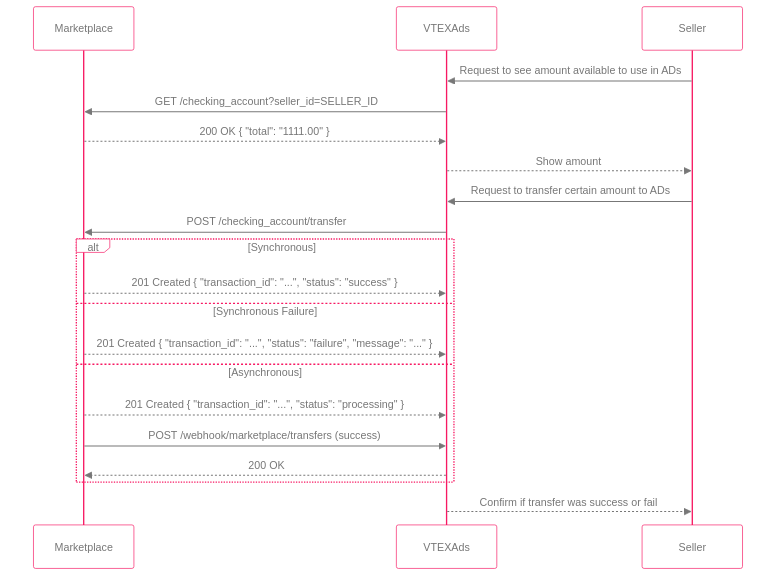
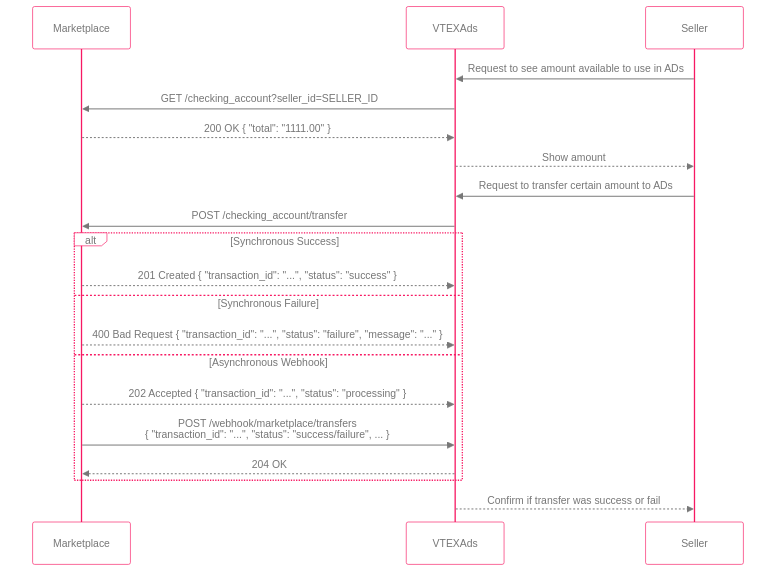
atualização da documentação de repasse

diff --git a/es/docs/7-repasse.md b/es/docs/7-repasse.md
@@ -2,7 +2,7 @@
 
 ![Flujo de Transferencia de Créditos](../../diagrams/images/credit-transfer.png)
 
-Flujo que permite al marketplace transferir créditos de publicidad a sus sellers. Para ello, el marketplace debe implementar dos endpoints y consumir un webhook de Newtail.
+Flujo que permite al marketplace transferir créditos de publicidad a sus sellers. Para ello, el marketplace debe implementar dos endpoints y consumir un webhook de VTEXAds.
 
   * **Endpoints a ser implementados por el Marketplace (Autenticación: Basic Auth):**
     1.  **Consulta de Saldo (`GET /checking_account`)**
@@ -24,17 +24,15 @@ Flujo que permite al marketplace transferir créditos de publicidad a sus seller
               "transfer_identity_id": "uuid"
             }
             ```
-        *   **Respuesta (201 Created):**
-            ```json
-            {
-              "transaction_id": "TRANSACTION_ID",
-              "status": "processing"
-            }
-            ```
-            Con el estado `processing`, la transacción aún no está completa y se enviará el webhook.
-            Para transacciones síncronas, los estados pueden ser:
-            - `success`: La transacción se completó con éxito.
-            - `failure`: La transacción falló.
+        *   **Respuestas:**
+            - **Síncrona (Éxito):** `201 Created`
+              ```json
+              {
+                "transaction_id": "TRANSACTION_ID",
+                "status": "success"
+              }
+              ```
+            - **Síncrona (Falla):** `400 Bad Request`
               ```json
               {
                 "transaction_id": "TRANSACTION_ID",
@@ -42,30 +40,32 @@ Flujo que permite al marketplace transferir créditos de publicidad a sus seller
                 "message": "Motivo del rechazo"
               }
               ```
+            - **Asíncrona:** `202 Accepted`
+              ```json
+              {
+                "transaction_id": "TRANSACTION_ID",
+                "status": "processing"
+              }
+              ```
 
   * **Webhook a ser consumido por el Marketplace:**
-    *   **Objetivo:** Notificar a Newtail sobre el estado final de la transferencia.
+    *   **Objetivo:** Notificar a VTEXAds sobre el estado final de la transferencia.
     *   **Endpoint:** `POST https://api-retail-media.newtail.com.br/webhook/marketplace/transfers/:publisher_id`
     *   **Autenticación:** `x-api-key` y `x-secret-key`.
-    *   **Payload de Éxito:**
+    *   **Payload:**
         ```json
         {
-          "amount": "10.00",
-          "seller_id": "SELLER_ID",
-          "publisher_id": "PUBLISHER_ID",
-          "transfer_identity_id": "uuid",
+          "transaction_id": "TRANSACTION_ID",
           "status": "success"
         }
         ```
-    *   **Payload de Falla:**
+        o
         ```json
         {
-          "amount": "10.00",
-          "seller_id": "SELLER_ID",
-          "publisher_id": "PUBLISHER_ID",
-          "transfer_identity_id": "uuid",
+          "transaction_id": "TRANSACTION_ID",
           "status": "failure",
           "message": "Descripción del problema"
         }
         ```
     *   **Lógica de Reintentos:** En caso de falla en la llamada del webhook, el marketplace debe realizar nuevos intentos.
+    *   **Respuesta Esperada:** `204 No Content`

diff --git a/pt/docs/7-repasse.md b/pt/docs/7-repasse.md
@@ -2,7 +2,7 @@
 
 ![Fluxo de Repasse de Créditos](../../diagrams/images/credit-transfer.png)
 
-Fluxo que permite ao marketplace transferir créditos de anúncio para seus sellers. Para isso, o marketplace deve implementar dois endpoints e consumir um webhook da Newtail.
+Fluxo que permite ao marketplace transferir créditos de anúncio para seus sellers. Para isso, o marketplace deve implementar dois endpoints e consumir um webhook da VTEXAds.
 
   * **Endpoints a serem implementados pelo Marketplace (Autenticação: Basic Auth):**
     1.  **Consulta de Saldo (`GET /checking_account`)**
@@ -24,17 +24,15 @@ Fluxo que permite ao marketplace transferir créditos de anúncio para seus sell
               "transfer_identity_id": "uuid"
             }
             ```
-        *   **Resposta (201 Created):**
-            ```json
-            {
-              "transaction_id": "TRANSACTION_ID",
-              "status": "processing"
-            }
-            ```
-            Com o status `processing` a transação ainda não está completa e o webhook será enviado.
-            Para transações síncronas, os status podem ser:
-            - `success`: A transação foi concluída com sucesso.
-            - `failure`: A transação falhou.
+        *   **Respostas:**
+            - **Síncrona (Sucesso):** `201 Created`
+              ```json
+              {
+                "transaction_id": "TRANSACTION_ID",
+                "status": "success"
+              }
+              ```
+            - **Síncrona (Falha):** `400 Bad Request`
               ```json
               {
                 "transaction_id": "TRANSACTION_ID",
@@ -42,30 +40,32 @@ Fluxo que permite ao marketplace transferir créditos de anúncio para seus sell
                 "message": "Motivo da recusa"
               }
               ```
+            - **Assíncrona:** `202 Accepted`
+              ```json
+              {
+                "transaction_id": "TRANSACTION_ID",
+                "status": "processing"
+              }
+              ```
 
   * **Webhook a ser consumido pelo Marketplace:**
-    *   **Objetivo:** Notificar a Newtail sobre o status final da transferência.
+    *   **Objetivo:** Notificar a VTEXAds sobre o status final da transferência.
     *   **Endpoint:** `POST https://api-retail-media.newtail.com.br/webhook/marketplace/transfers/:publisher_id`
     *   **Autenticação:** `x-api-key` e `x-secret-key`.
-    *   **Payload de Sucesso:**
+    *   **Payload:**
         ```json
         {
-          "amount": "10.00",
-          "seller_id": "SELLER_ID",
-          "publisher_id": "PUBLISHER_ID",
-          "transfer_identity_id": "uuid",
+          "transaction_id": "TRANSACTION_ID",
           "status": "success"
         }
         ```
-    *   **Payload de Falha:**
+        ou
         ```json
         {
-          "amount": "10.00",
-          "seller_id": "SELLER_ID",
-          "publisher_id": "PUBLISHER_ID",
-          "transfer_identity_id": "uuid",
+          "transaction_id": "TRANSACTION_ID",
           "status": "failure",
           "message": "Descrição do problema"
         }
         ```
     *   **Lógica de Retry:** Em caso de falha na chamada do webhook, o marketplace deve realizar novas tentativas.
+    *   **Resposta Esperada:** `204 No Content`

diff --git a/en/docs/7-credit-transfer.md b/en/docs/7-credit-transfer.md
@@ -2,7 +2,7 @@
 
 ![Credit Transfer Flow](../../diagrams/images/credit-transfer.png)
 
-A flow that allows the marketplace to transfer advertising credits to its sellers. To do this, the marketplace must implement two endpoints and consume a webhook from Newtail.
+A flow that allows the marketplace to transfer advertising credits to its sellers. To do this, the marketplace must implement two endpoints and consume a webhook from VTEXAds.
 
   * **Endpoints to be implemented by the Marketplace (Authentication: Basic Auth):**
     1.  **Check Balance (`GET /checking_account`)**
@@ -24,17 +24,15 @@ A flow that allows the marketplace to transfer advertising credits to its seller
               "transfer_identity_id": "uuid"
             }
             ```
-        *   **Response (201 Created):**
-            ```json
-            {
-              "transaction_id": "TRANSACTION_ID",
-              "status": "processing"
-            }
-            ```
-            With the `processing` status, the transaction is not yet complete and a webhook will be sent.
-            For synchronous transactions, the statuses can be:
-            - `success`: The transaction was completed successfully.
-            - `failure`: The transaction failed.
+        *   **Responses:**
+            - **Synchronous (Success):** `201 Created`
+              ```json
+              {
+                "transaction_id": "TRANSACTION_ID",
+                "status": "success"
+              }
+              ```
+            - **Synchronous (Failure):** `400 Bad Request`
               ```json
               {
                 "transaction_id": "TRANSACTION_ID",
@@ -42,30 +40,32 @@ A flow that allows the marketplace to transfer advertising credits to its seller
                 "message": "Reason for refusal"
               }
               ```
+            - **Asynchronous:** `202 Accepted`
+              ```json
+              {
+                "transaction_id": "TRANSACTION_ID",
+                "status": "processing"
+              }
+              ```
 
   * **Webhook to be consumed by the Marketplace:**
-    *   **Objective:** Notify Newtail about the final status of the transfer.
+    *   **Objective:** Notify VTEXAds about the final status of the transfer.
     *   **Endpoint:** `POST https://api-retail-media.newtail.com.br/webhook/marketplace/transfers/:publisher_id`
     *   **Authentication:** `x-api-key` and `x-secret-key`.
-    *   **Success Payload:**
+    *   **Payload:**
         ```json
         {
-          "amount": "10.00",
-          "seller_id": "SELLER_ID",
-          "publisher_id": "PUBLISHER_ID",
-          "transfer_identity_id": "uuid",
+          "transaction_id": "TRANSACTION_ID",
           "status": "success"
         }
         ```
-    *   **Failure Payload:**
+        or
         ```json
         {
-          "amount": "10.00",
-          "seller_id": "SELLER_ID",
-          "publisher_id": "PUBLISHER_ID",
-          "transfer_identity_id": "uuid",
+          "transaction_id": "TRANSACTION_ID",
           "status": "failure",
           "message": "Problem description"
         }
         ```
     *   **Retry Logic:** In case of a webhook call failure, the marketplace must retry.
+    *   **Expected Response:** `204 No Content`
